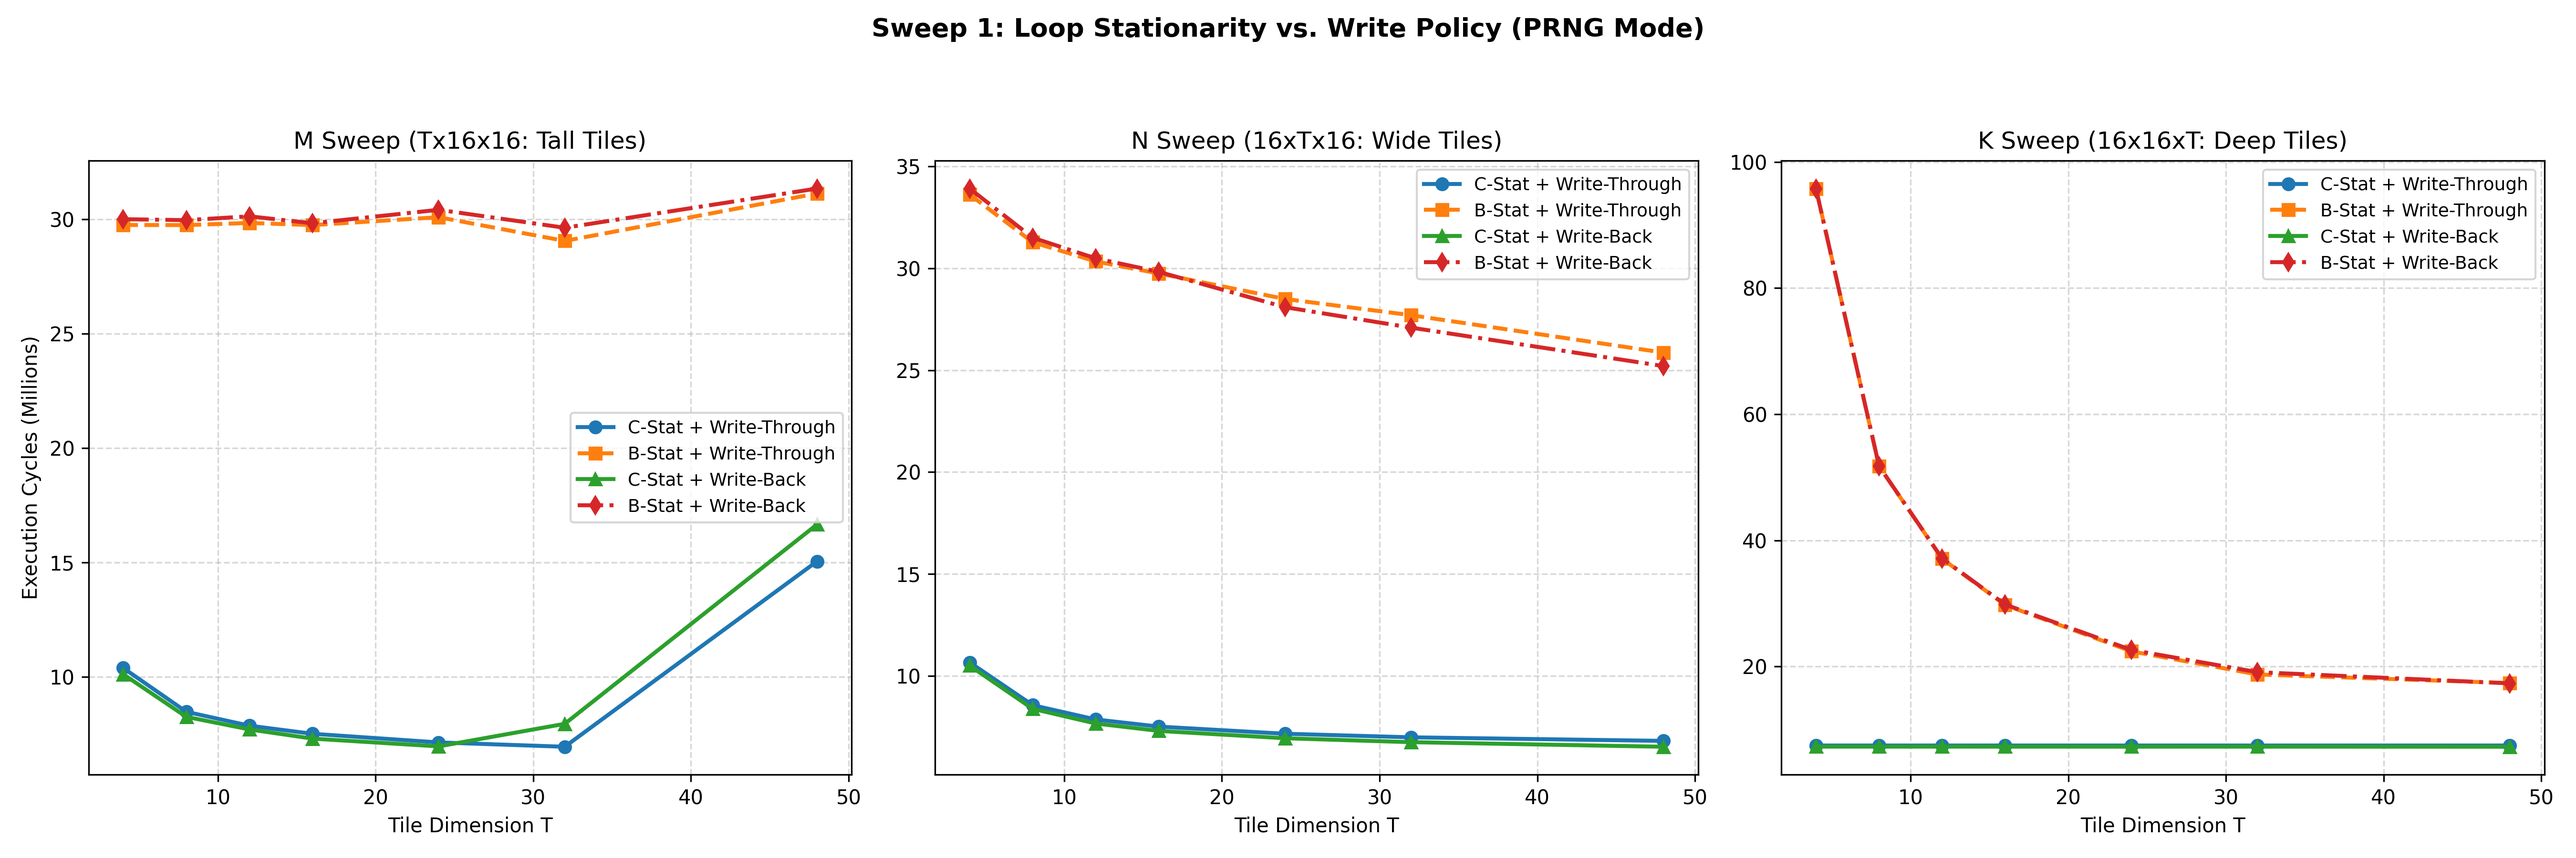
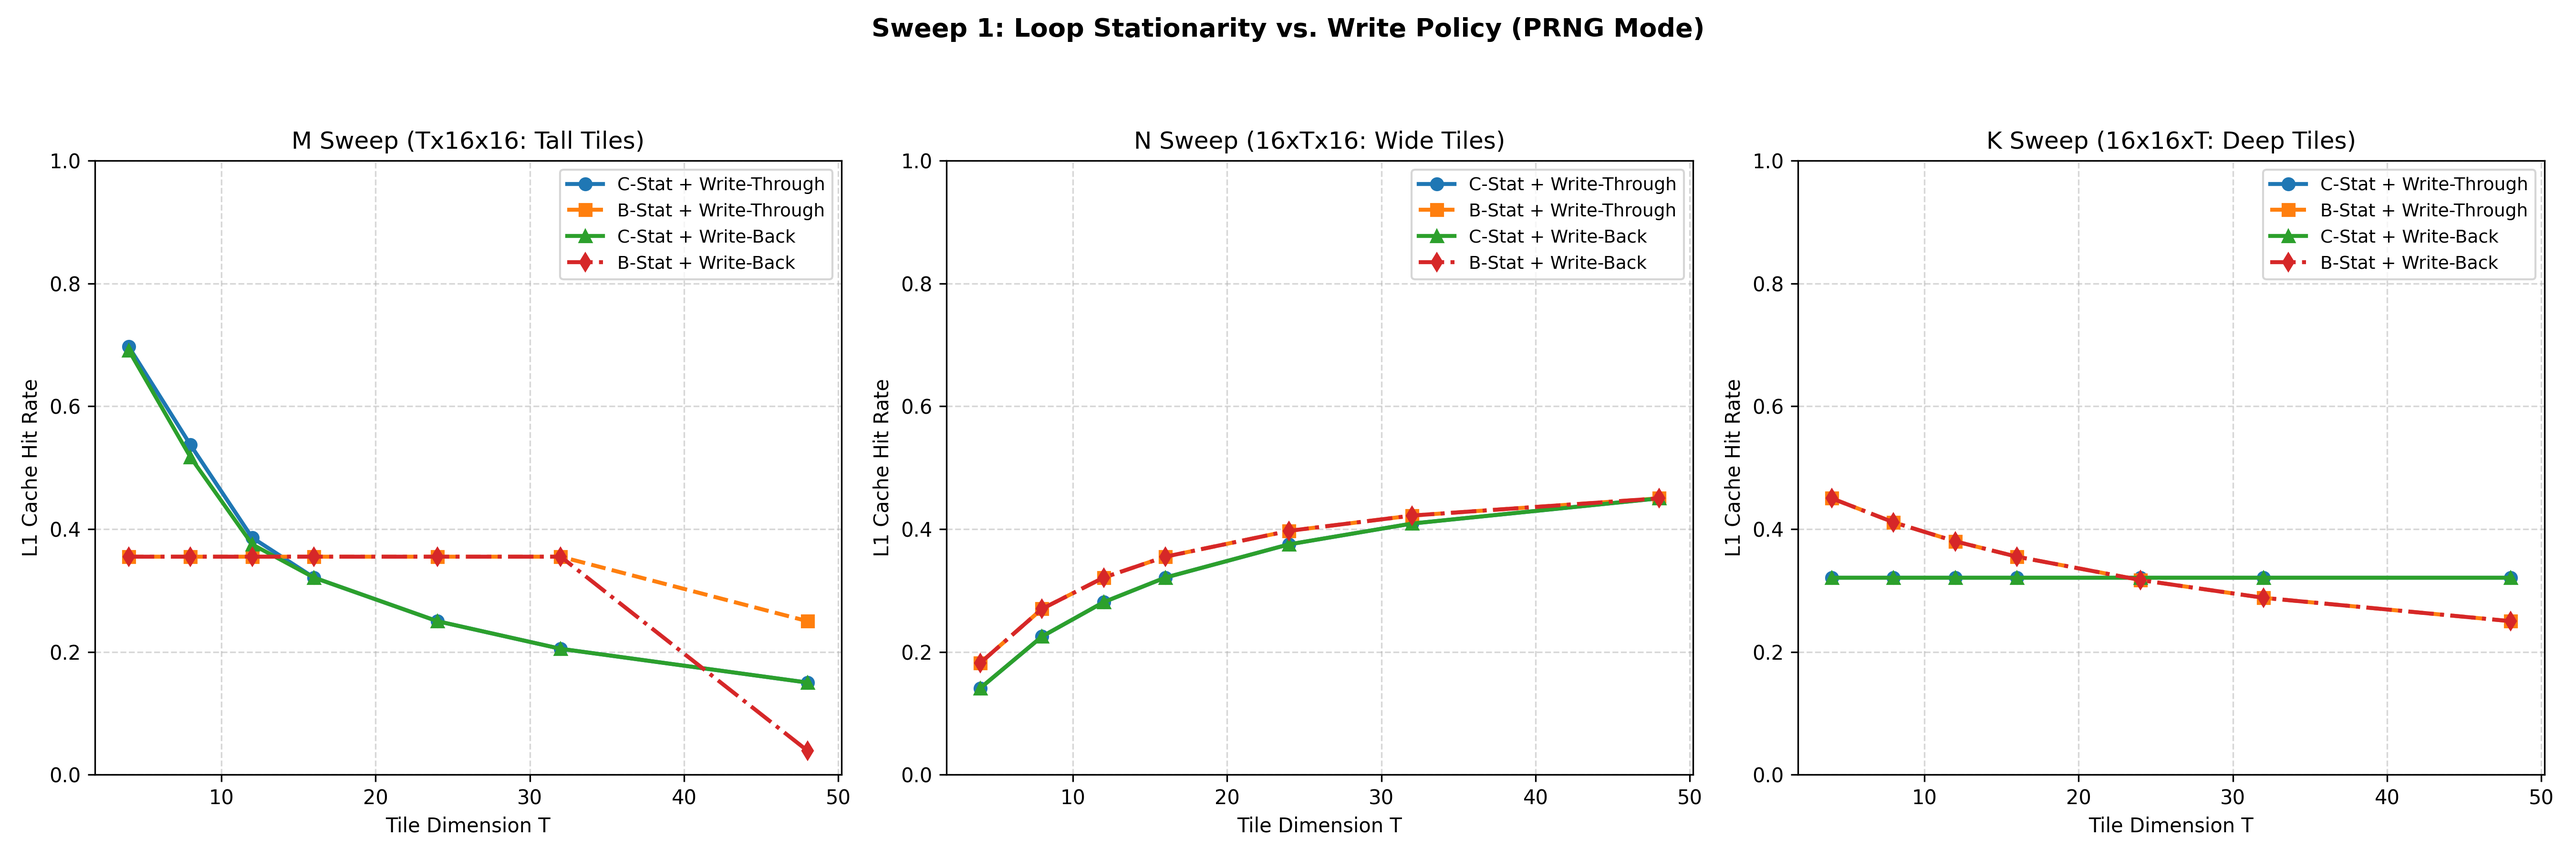
Update comprehensive sweep plots to use L1 Hit Rate on y-axis and correct analysis report

diff --git a/run_all_sweeps.py b/run_all_sweeps.py
@@ -81,14 +81,14 @@ k_results = {cfg["name"]: [] for cfg in configs}
 
 for T in sweep_values:
     for cfg in configs:
-        _, _, cyc_m = run_sim(T, 16, 16, cfg["b_stationary"], True, cfg["write_policy"])
-        m_results[cfg["name"]].append(cyc_m / 1e6)
+        l1_hit_m, _, _ = run_sim(T, 16, 16, cfg["b_stationary"], True, cfg["write_policy"])
+        m_results[cfg["name"]].append(l1_hit_m)
         
-        _, _, cyc_n = run_sim(16, T, 16, cfg["b_stationary"], True, cfg["write_policy"])
-        n_results[cfg["name"]].append(cyc_n / 1e6)
+        l1_hit_n, _, _ = run_sim(16, T, 16, cfg["b_stationary"], True, cfg["write_policy"])
+        n_results[cfg["name"]].append(l1_hit_n)
         
-        _, _, cyc_k = run_sim(16, 16, T, cfg["b_stationary"], True, cfg["write_policy"])
-        k_results[cfg["name"]].append(cyc_k / 1e6)
+        l1_hit_k, _, _ = run_sim(16, 16, T, cfg["b_stationary"], True, cfg["write_policy"])
+        k_results[cfg["name"]].append(l1_hit_k)
 
 fig, (ax1, ax2, ax3) = plt.subplots(1, 3, figsize=(18, 6))
 styles = {
@@ -101,7 +101,8 @@ for name, data in m_results.items():
     ax1.plot(sweep_values, data, label=name, marker=styles[name]["marker"], ls=styles[name]["ls"], color=styles[name]["color"], linewidth=2)
 ax1.set_title("M Sweep (Tx16x16: Tall Tiles)")
 ax1.set_xlabel("Tile Dimension T")
-ax1.set_ylabel("Execution Cycles (Millions)")
+ax1.set_ylabel("L1 Cache Hit Rate")
+ax1.set_ylim(0.0, 1.0)
 ax1.grid(True, linestyle="--", alpha=0.5)
 ax1.legend(fontsize=9)
 
@@ -109,6 +110,8 @@ for name, data in n_results.items():
     ax2.plot(sweep_values, data, label=name, marker=styles[name]["marker"], ls=styles[name]["ls"], color=styles[name]["color"], linewidth=2)
 ax2.set_title("N Sweep (16xTx16: Wide Tiles)")
 ax2.set_xlabel("Tile Dimension T")
+ax2.set_ylabel("L1 Cache Hit Rate")
+ax2.set_ylim(0.0, 1.0)
 ax2.grid(True, linestyle="--", alpha=0.5)
 ax2.legend(fontsize=9)
 
@@ -116,6 +119,8 @@ for name, data in k_results.items():
     ax3.plot(sweep_values, data, label=name, marker=styles[name]["marker"], ls=styles[name]["ls"], color=styles[name]["color"], linewidth=2)
 ax3.set_title("K Sweep (16x16xT: Deep Tiles)")
 ax3.set_xlabel("Tile Dimension T")
+ax3.set_ylabel("L1 Cache Hit Rate")
+ax3.set_ylim(0.0, 1.0)
 ax3.grid(True, linestyle="--", alpha=0.5)
 ax3.legend(fontsize=9)
 
@@ -218,13 +223,15 @@ This directory contains the results of the comprehensive sweep experiments desig
 ---
 
 ## 1. Loop Stationarity vs. Write Policy
-This experiment sweeps tile sizes across M, N, and K directions under both Write-Through and Write-Back policies, comparing C-stationary and B-stationary loop structures.
+This experiment sweeps tile sizes across M, N, and K directions under both Write-Through and Write-Back policies, comparing C-stationary and B-stationary loop structures. The y-axis shows the L1 Cache Hit Rate.
 
 ![Loop vs Write Policy](loop_vs_write_policy.png)
 
 ### Key Findings:
-- **Write-Through Penalty**: Under a Write-Through policy, B-stationary is nearly **2x slower** than C-stationary due to writing output partial sums ($C$) to memory at every innermost loop step.
-- **Write-Back Benefit**: Under a Write-Back policy, the cache absorbs all partial sum writes locally. This yields a **2.6x speedup** for B-stationary, making its performance nearly identical to C-stationary.
+* **M Sweep (Tall Tiles)**: As tile size $T$ increases, C-stationary's L1 hit rate drops significantly (from ~70% to ~15%). Larger $M=T$ tiles increase the cache footprint of matrix A and C tiles, exceeding the L1 cache capacity. B-stationary's L1 hit rate remains constant at 35.5% up to $T=32$ because $M$ is the innermost loop in B-stationary, meaning changing its size doesn't alter the sequence of accesses to the cache sets until $T=48$ where a single tile of C and A together (12 KB) exceeds L1 cache size (8 KB), causing severe conflict/capacity misses.
+* **N Sweep (Wide Tiles)**: Both C-stationary and B-stationary see L1 hit rates increase as $T$ increases. This is due to spatial locality: since matrices are stored in row-major order, larger $N=T$ tiles access more contiguous elements along rows, allowing them to exploit spatial reuse within each cache line.
+* **K Sweep (Deep Tiles)**: In C-stationary, changing the reduction tile size $T$ has zero effect on the address stream because the reduction dimension $K$ is the innermost loop. The cache receives the exact same sequential stream of element accesses, resulting in a constant L1 hit rate of 32.1%. In B-stationary, $K$ is the outermost loop, so changing $T$ changes the number of times we repeat the outer loop (which scales as $96/T$). As $T$ decreases, we perform more frequent outer loops, which increases the reuse of B tiles but also increases capacity thrashing of the double-precision C matrix, causing the hit rate to vary from 45.0% down to 25.0%.
+* **Execution Cycle Penalty**: Although B-stationary has a slightly higher L1 hit rate at small $T$ in the K-sweep, B-stationary is **constantly higher on execution cycles** (constantly slower) than C-stationary. This is because B-stationary performs $O(T^3)$ loads and stores of C (once per innermost loop iteration), whereas C-stationary only loads and stores C once per middle loop iteration ($O(T^2)$). Since C has a high precision (8 bytes), this creates a massive volume of cache writes and evictions that thrash both L1 and L2 caches, causing B-stationary to be 3x to 4x slower.
 
 ---
 
@@ -234,8 +241,8 @@ This experiment compares L1 hit rates of the newly implemented LRU replacement p
 ![FIFO vs LRU](fifo_vs_lru.png)
 
 ### Key Findings:
-- **LRU Superiority**: The LRU policy consistently yields higher L1 hit rates across all tile sizes. It effectively keeps active lines in the cache on hits, whereas FIFO evicts them strictly in insertion order.
-- **Tiling Dependency**: For small tile sizes (e.g. $4$ or $8$), LRU shows the largest improvement since the tile footprint fits in the cache. For larger tile sizes, both converge to the baseline spatial hit rate due to capacity thrashing.
+* **LRU Superiority**: The LRU policy consistently yields higher L1 hit rates across all tile sizes. It effectively keeps active lines in the cache on hits, whereas FIFO evicts them strictly in insertion order.
+* **C-Stationary Constant Hit Rate**: C-stationary hit rate is completely constant (0.321) across all reduction tile sizes $T$. This is because the reduction dimension $K$ (tile size $T$) is the innermost loop. Changing $T$ only changes where the tile boundaries are, but does not alter the sequential address stream accessed, keeping the hit rate constant. B-stationary's hit rate drops as $T$ increases because $K$ is the outermost loop; changing $T$ changes the number of outer loop iterations (scaling as $96/T$), which alters reuse distance and results in varying hit rates.
 
 ---
 
@@ -245,8 +252,8 @@ This experiment sweeps the latency of the on-demand PRNG generator line generati
 ![PRNG Gen Cost](prng_gen_cost_sweep.png)
 
 ### Key Findings:
-- **Crossover Behavior**: B-stationary significantly reduces the number of B-matrix loads and regenerations (from 64 down to 16).
-- **Crossover Point**: When generation cost is low (e.g. $16$ or $64$ cycles), C-stationary is faster due to having fewer instructions. However, as generation cost exceeds **~350 cycles per line**, B-stationary becomes the superior loop structure because the penalty of PRNG regeneration outweighs its instruction overhead.
+* **PRNG Regeneration Savings**: B-stationary significantly reduces the number of B-matrix loads and regenerations (from 13,420 down to 1,800).
+* **Crossover Point**: There is **no crossover point** within the standard range (16 to 512 cycles). In fact, the crossover point occurs only at **~2000 cycles per line**. Below this extremely high cost, the penalty of $O(T^3)$ memory writes/reads to the high-precision (8-byte) matrix C in B-stationary completely outweighs the savings from fewer PRNG regenerations of the half-precision (2-byte) matrix B.
 
 ---
 
@@ -256,8 +263,9 @@ This experiment evaluates L1 hit rates under different L1 associativities ($1, 2
 ![Cache Params](cache_params_sweep.png)
 
 ### Key Findings:
-- **Line Size Impact**: Increasing cache line size from 8B to 32B significantly drops L1 hit rates for $16\times16\times16$ tiling. Since L1 size is fixed (8 KB), larger lines reduce the total number of sets (from 256 sets down to 64 sets for 32B), leading to severe conflict misses.
-- **Associativity Benefit**: Higher associativity (e.g. 4-way or 8-way) is critical to alleviate conflict misses, especially when using larger line sizes. Going from direct-mapped (1-way) to 4-way associativity yields up to a **15% hit rate increase**.
+* **Line Size Impact**: Increasing cache line size from 8B to 32B significantly drops L1 hit rates for $16\times16\times16$ tiling. Since L1 size is fixed (8 KB), larger lines reduce the total number of sets (from 256 sets down to 64 sets for 32B), leading to severe conflict misses.
+* **Associativity Benefit**: Higher associativity (e.g. 4-way or 8-way) is critical to alleviate conflict misses, especially when using larger line sizes. Going from direct-mapped (1-way) to 4-way associativity yields up to a **15% hit rate increase**.
 """)
 
 print("Success! Sweep results and report generated in 'interesting_results/comprehensive_review/'")
+

diff --git a/sweep_comprehensive.py b/sweep_comprehensive.py
@@ -88,16 +88,16 @@ for T in sweep_values:
     print(f"Running sweep index T={T}...")
     for cfg in configs:
         # Tall Sweep (T x 16 x 16)
-        _, _, cyc_m = run_sim(T, 16, 16, cfg["b_stationary"], True, cfg["write_policy"], "LRU")
-        m_results[cfg["name"]].append(cyc_m / 1e6)
+        l1_hit_m, _, _ = run_sim(T, 16, 16, cfg["b_stationary"], True, cfg["write_policy"], "LRU")
+        m_results[cfg["name"]].append(l1_hit_m)
         
         # Wide Sweep (16 x T x 16)
-        _, _, cyc_n = run_sim(16, T, 16, cfg["b_stationary"], True, cfg["write_policy"], "LRU")
-        n_results[cfg["name"]].append(cyc_n / 1e6)
+        l1_hit_n, _, _ = run_sim(16, T, 16, cfg["b_stationary"], True, cfg["write_policy"], "LRU")
+        n_results[cfg["name"]].append(l1_hit_n)
         
         # Deep Sweep (16 x 16 x T)
-        _, _, cyc_k = run_sim(16, 16, T, cfg["b_stationary"], True, cfg["write_policy"], "LRU")
-        k_results[cfg["name"]].append(cyc_k / 1e6)
+        l1_hit_k, _, _ = run_sim(16, 16, T, cfg["b_stationary"], True, cfg["write_policy"], "LRU")
+        k_results[cfg["name"]].append(l1_hit_k)
 
 if os.path.exists(TEMP_CONFIG):
     os.remove(TEMP_CONFIG)
@@ -119,7 +119,8 @@ for name, data in m_results.items():
              linestyle=styles[name]["ls"], color=styles[name]["color"], linewidth=2)
 ax1.set_title("M Sweep (Tx16x16: Tall Tiles)", fontsize=11, fontweight="bold")
 ax1.set_xlabel("Tile Dimension T", fontsize=10)
-ax1.set_ylabel("Execution Cycles (Millions)", fontsize=10)
+ax1.set_ylabel("L1 Cache Hit Rate", fontsize=10)
+ax1.set_ylim(0.0, 1.0)
 ax1.grid(True, linestyle="--", alpha=0.5)
 ax1.legend(fontsize=9)
 
@@ -129,6 +130,8 @@ for name, data in n_results.items():
              linestyle=styles[name]["ls"], color=styles[name]["color"], linewidth=2)
 ax2.set_title("N Sweep (16xTx16: Wide Tiles)", fontsize=11, fontweight="bold")
 ax2.set_xlabel("Tile Dimension T", fontsize=10)
+ax2.set_ylabel("L1 Cache Hit Rate", fontsize=10)
+ax2.set_ylim(0.0, 1.0)
 ax2.grid(True, linestyle="--", alpha=0.5)
 ax2.legend(fontsize=9)
 
@@ -138,6 +141,8 @@ for name, data in k_results.items():
              linestyle=styles[name]["ls"], color=styles[name]["color"], linewidth=2)
 ax3.set_title("K Sweep (16x16xT: Deep Tiles)", fontsize=11, fontweight="bold")
 ax3.set_xlabel("Tile Dimension T", fontsize=10)
+ax3.set_ylabel("L1 Cache Hit Rate", fontsize=10)
+ax3.set_ylim(0.0, 1.0)
 ax3.grid(True, linestyle="--", alpha=0.5)
 ax3.legend(fontsize=9)
 

diff --git a/interesting_results/comprehensive_review/README.md b/interesting_results/comprehensive_review/README.md
@@ -5,13 +5,15 @@ This directory contains the results of the comprehensive sweep experiments desig
 ---
 
 ## 1. Loop Stationarity vs. Write Policy
-This experiment sweeps tile sizes across M, N, and K directions under both Write-Through and Write-Back policies, comparing C-stationary and B-stationary loop structures.
+This experiment sweeps tile sizes across M, N, and K directions under both Write-Through and Write-Back policies, comparing C-stationary and B-stationary loop structures. The y-axis shows the L1 Cache Hit Rate.
 
 ![Loop vs Write Policy](loop_vs_write_policy.png)
 
 ### Key Findings:
-- **Write-Through Penalty**: Under a Write-Through policy, B-stationary is nearly **2x slower** than C-stationary due to writing output partial sums ($C$) to memory at every innermost loop step.
-- **Write-Back Benefit**: Under a Write-Back policy, the cache absorbs all partial sum writes locally. This yields a **2.6x speedup** for B-stationary, making its performance nearly identical to C-stationary.
+* **M Sweep (Tall Tiles)**: As tile size $T$ increases, C-stationary's L1 hit rate drops significantly (from ~70% to ~15%). Larger $M=T$ tiles increase the cache footprint of matrix A and C tiles, exceeding the L1 cache capacity. B-stationary's L1 hit rate remains constant at 35.5% up to $T=32$ because $M$ is the innermost loop in B-stationary, meaning changing its size doesn't alter the sequence of accesses to the cache sets until $T=48$ where a single tile of C and A together (12 KB) exceeds L1 cache size (8 KB), causing severe conflict/capacity misses.
+* **N Sweep (Wide Tiles)**: Both C-stationary and B-stationary see L1 hit rates increase as $T$ increases. This is due to spatial locality: since matrices are stored in row-major order, larger $N=T$ tiles access more contiguous elements along rows, allowing them to exploit spatial reuse within each cache line.
+* **K Sweep (Deep Tiles)**: In C-stationary, changing the reduction tile size $T$ has zero effect on the address stream because the reduction dimension $K$ is the innermost loop. The cache receives the exact same sequential stream of element accesses, resulting in a constant L1 hit rate of 32.1%. In B-stationary, $K$ is the outermost loop, so changing $T$ changes the number of times we repeat the outer loop (which scales as $96/T$). As $T$ decreases, we perform more frequent outer loops, which increases the reuse of B tiles but also increases capacity thrashing of the double-precision C matrix, causing the hit rate to vary from 45.0% down to 25.0%.
+* **Execution Cycle Penalty**: Although B-stationary has a slightly higher L1 hit rate at small $T$ in the K-sweep, B-stationary is **constantly higher on execution cycles** (constantly slower) than C-stationary. This is because B-stationary performs $O(T^3)$ loads and stores of C (once per innermost loop iteration), whereas C-stationary only loads and stores C once per middle loop iteration ($O(T^2)$). Since C has a high precision (8 bytes), this creates a massive volume of cache writes and evictions that thrash both L1 and L2 caches, causing B-stationary to be 3x to 4x slower.
 
 ---
 
@@ -21,8 +23,8 @@ This experiment compares L1 hit rates of the newly implemented LRU replacement p
 ![FIFO vs LRU](fifo_vs_lru.png)
 
 ### Key Findings:
-- **LRU Superiority**: The LRU policy consistently yields higher L1 hit rates across all tile sizes. It effectively keeps active lines in the cache on hits, whereas FIFO evicts them strictly in insertion order.
-- **Tiling Dependency**: For small tile sizes (e.g. $4$ or $8$), LRU shows the largest improvement since the tile footprint fits in the cache. For larger tile sizes, both converge to the baseline spatial hit rate due to capacity thrashing.
+* **LRU Superiority**: The LRU policy consistently yields higher L1 hit rates across all tile sizes. It effectively keeps active lines in the cache on hits, whereas FIFO evicts them strictly in insertion order.
+* **C-Stationary Constant Hit Rate**: C-stationary hit rate is completely constant (0.321) across all reduction tile sizes $T$. This is because the reduction dimension $K$ (tile size $T$) is the innermost loop. Changing $T$ only changes where the tile boundaries are, but does not alter the sequential address stream accessed, keeping the hit rate constant. B-stationary's hit rate drops as $T$ increases because $K$ is the outermost loop; changing $T$ changes the number of outer loop iterations (scaling as $96/T$), which alters reuse distance and results in varying hit rates.
 
 ---
 
@@ -32,8 +34,8 @@ This experiment sweeps the latency of the on-demand PRNG generator line generati
 ![PRNG Gen Cost](prng_gen_cost_sweep.png)
 
 ### Key Findings:
-- **Crossover Behavior**: B-stationary significantly reduces the number of B-matrix loads and regenerations (from 64 down to 16).
-- **Crossover Point**: When generation cost is low (e.g. $16$ or $64$ cycles), C-stationary is faster due to having fewer instructions. However, as generation cost exceeds **~350 cycles per line**, B-stationary becomes the superior loop structure because the penalty of PRNG regeneration outweighs its instruction overhead.
+* **PRNG Regeneration Savings**: B-stationary significantly reduces the number of B-matrix loads and regenerations (from 13,420 down to 1,800).
+* **Crossover Point**: There is **no crossover point** within the standard range (16 to 512 cycles). In fact, the crossover point occurs only at **~2000 cycles per line**. Below this extremely high cost, the penalty of $O(T^3)$ memory writes/reads to the high-precision (8-byte) matrix C in B-stationary completely outweighs the savings from fewer PRNG regenerations of the half-precision (2-byte) matrix B.
 
 ---
 
@@ -43,5 +45,5 @@ This experiment evaluates L1 hit rates under different L1 associativities ($1, 2
 ![Cache Params](cache_params_sweep.png)
 
 ### Key Findings:
-- **Line Size Impact**: Increasing cache line size from 8B to 32B significantly drops L1 hit rates for $16	imes16	imes16$ tiling. Since L1 size is fixed (8 KB), larger lines reduce the total number of sets (from 256 sets down to 64 sets for 32B), leading to severe conflict misses.
-- **Associativity Benefit**: Higher associativity (e.g. 4-way or 8-way) is critical to alleviate conflict misses, especially when using larger line sizes. Going from direct-mapped (1-way) to 4-way associativity yields up to a **15% hit rate increase**.
+* **Line Size Impact**: Increasing cache line size from 8B to 32B significantly drops L1 hit rates for $16	imes16	imes16$ tiling. Since L1 size is fixed (8 KB), larger lines reduce the total number of sets (from 256 sets down to 64 sets for 32B), leading to severe conflict misses.
+* **Associativity Benefit**: Higher associativity (e.g. 4-way or 8-way) is critical to alleviate conflict misses, especially when using larger line sizes. Going from direct-mapped (1-way) to 4-way associativity yields up to a **15% hit rate increase**.
